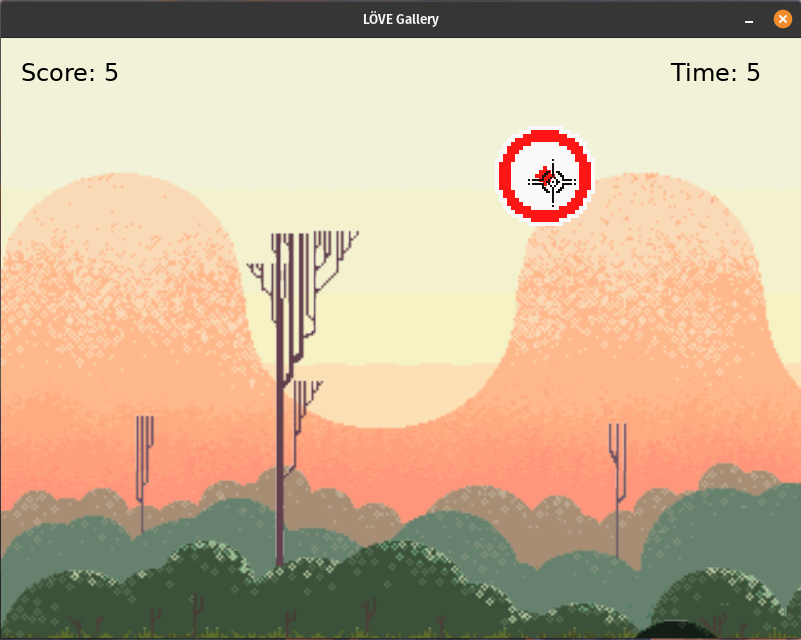
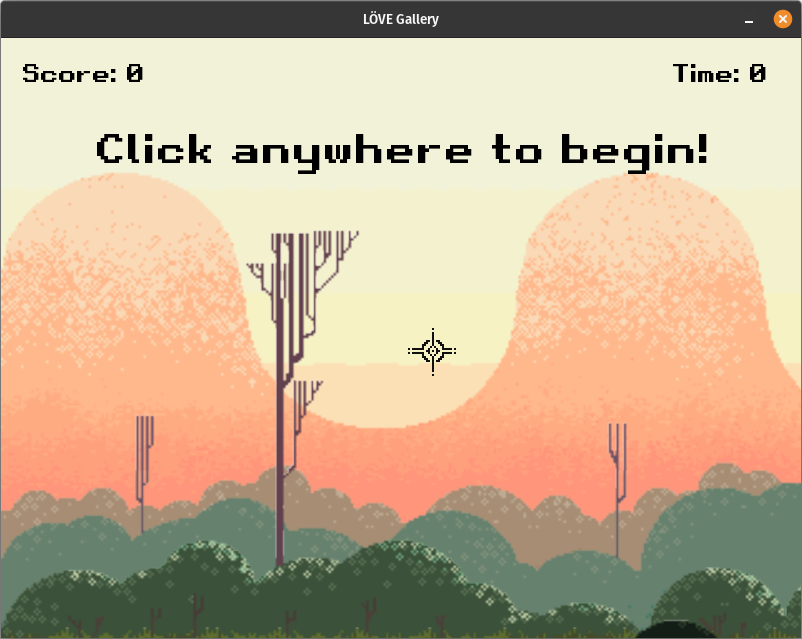
Update screenshots

diff --git a/README.md b/README.md
@@ -1,3 +1,4 @@
 ### Shooting Gallery built with LÖVE and Lua
-![screenshot](./screenshots/screenshot_01.png)
+![screenshot 1](./screenshots/screenshot_01.png)
+![screenshot 2](./screenshots/screenshot_02.png)
 A simple shooting gallery style game made with LÖVE and Lua!
